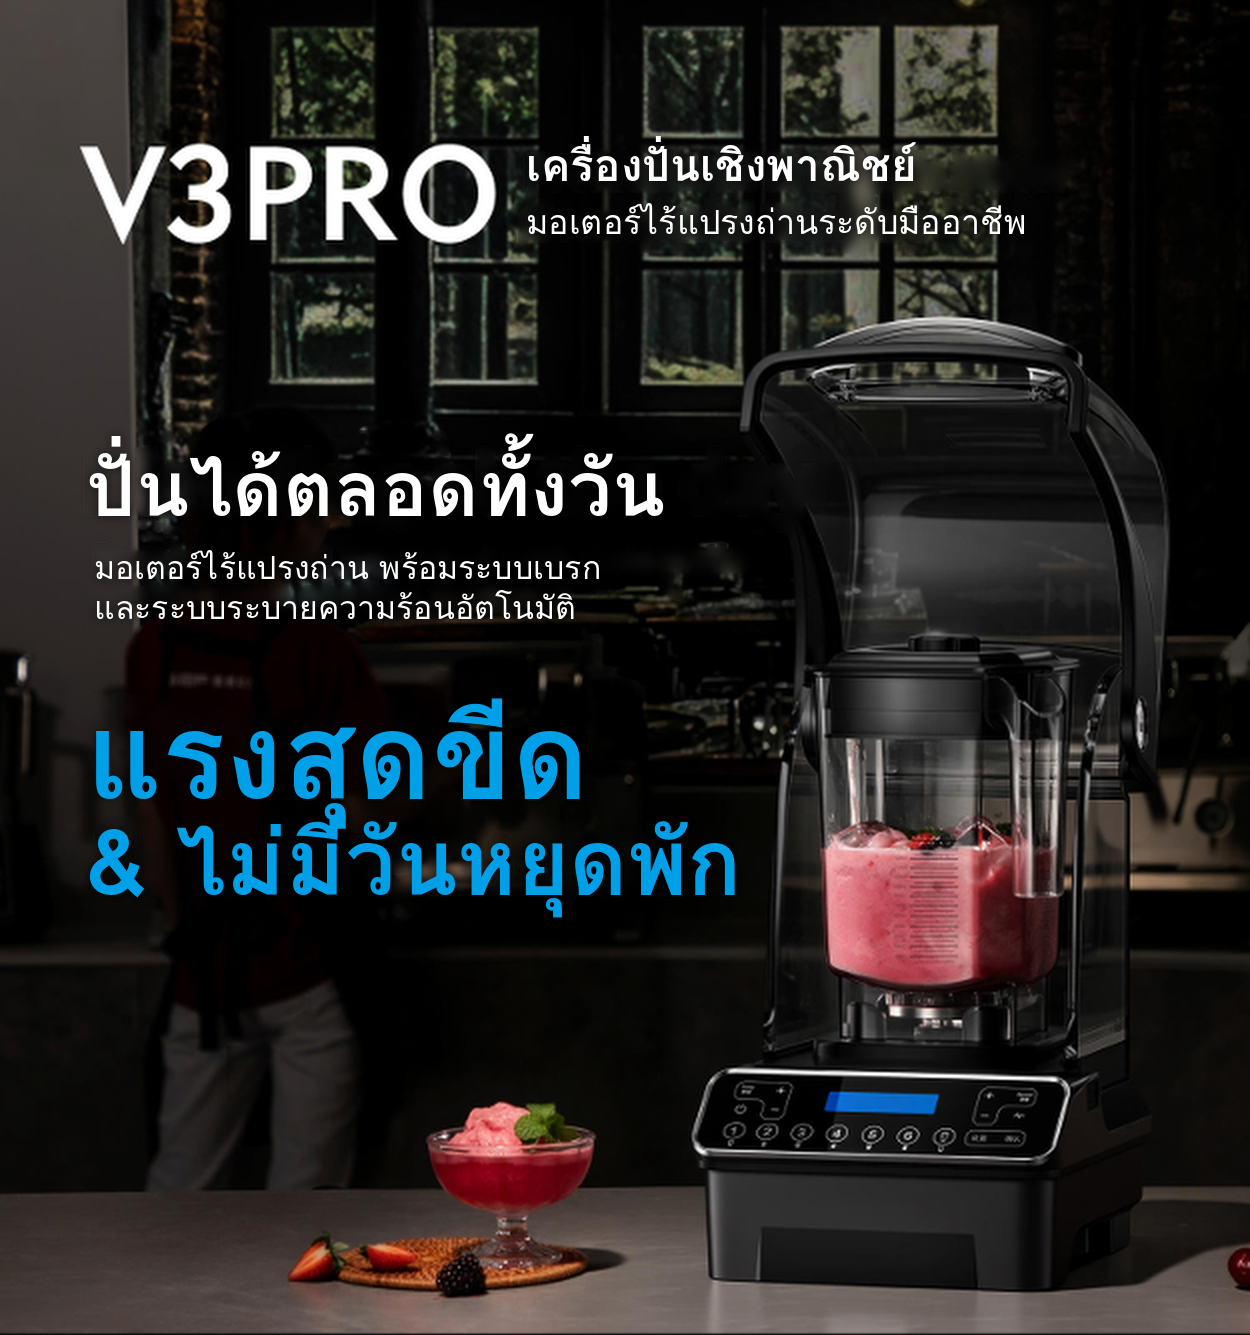
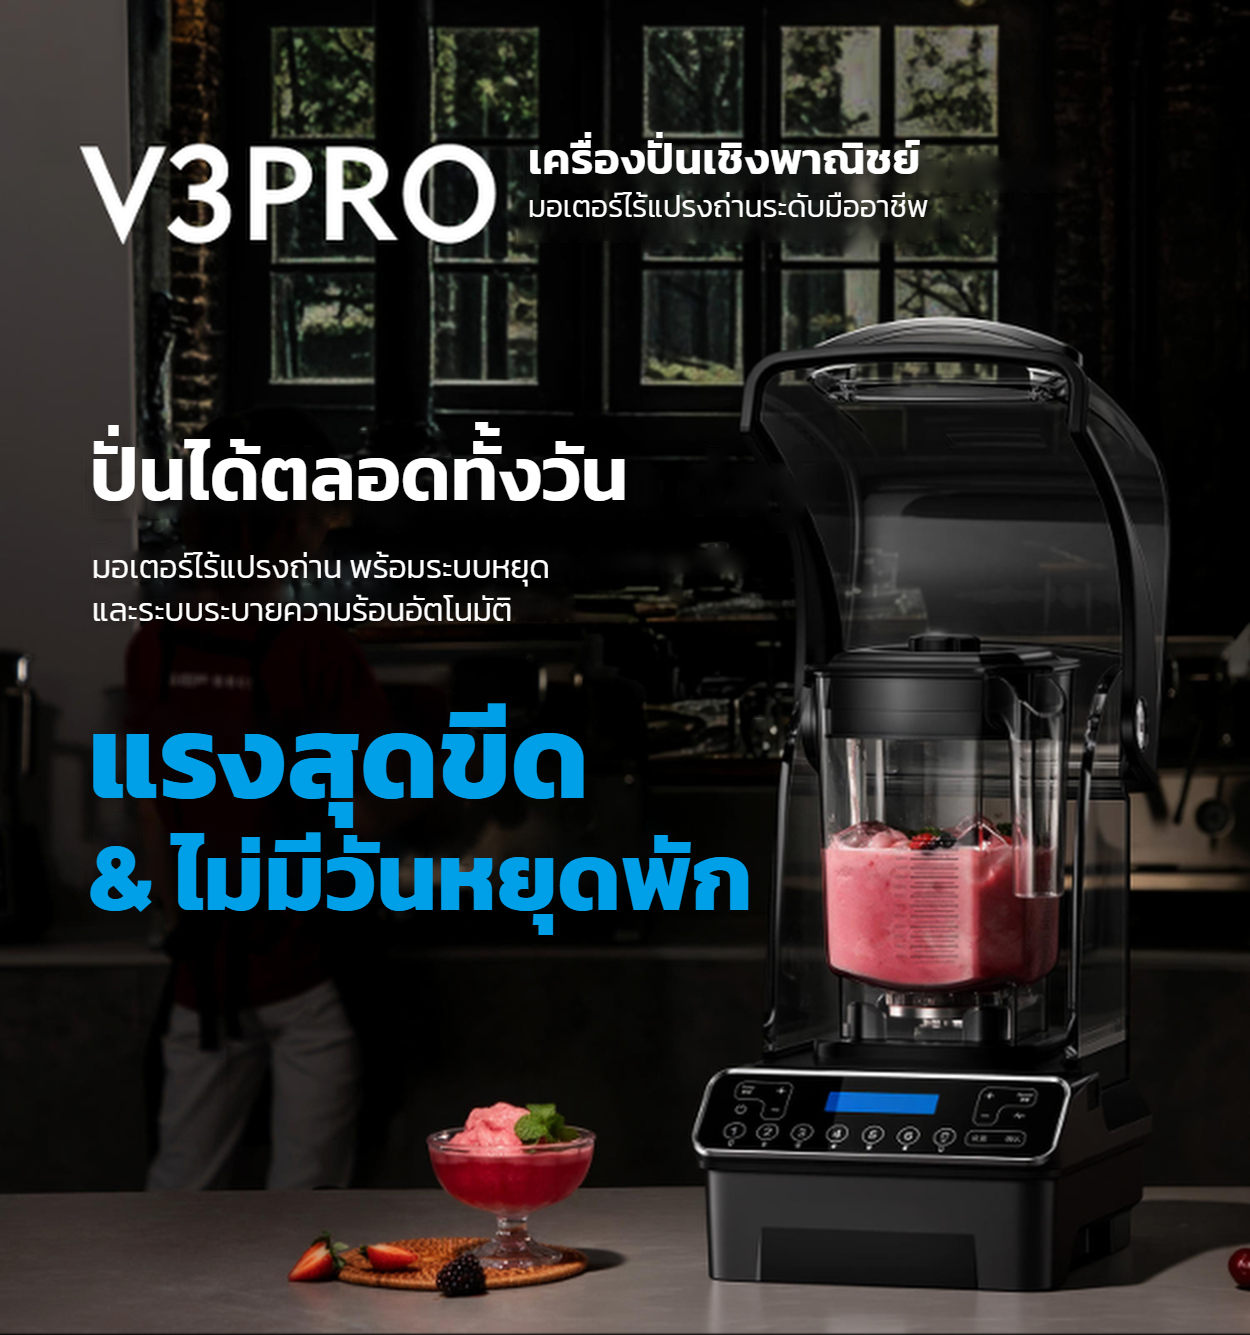
Change img V3 and updated index.html

Changed region(s): [[0.0624, 0.5221, 0.624, 0.7064], [0.0624, 0.3071, 0.5304, 0.4914], [0.4056, 0.0921, 0.8112, 0.1843]]

diff --git a/index.html b/index.html
@@ -234,7 +234,7 @@
         <!-- Feature 4: V3 PRO -->
         <div id="product-v3pro" class="feature-row reverse fade-in">
             <div class="feature-image">
-                <img src="media\image\V3Pro.png" alt="GEF S9Pro Blender">
+                <img src="media\image\V3PRO.png" alt="GEF S9Pro Blender">
             </div>
             <div class="feature-text">
                 <h2>GEF V3 PRO</h2>
